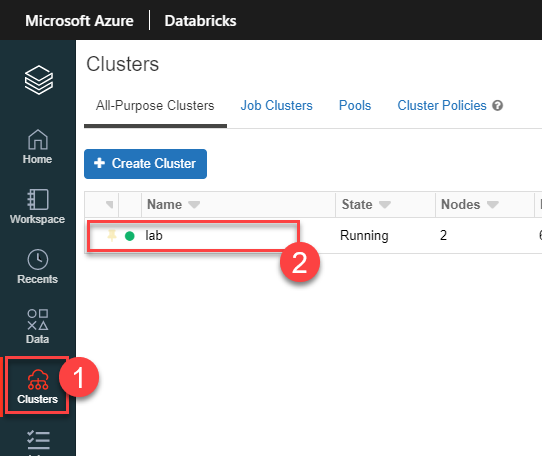
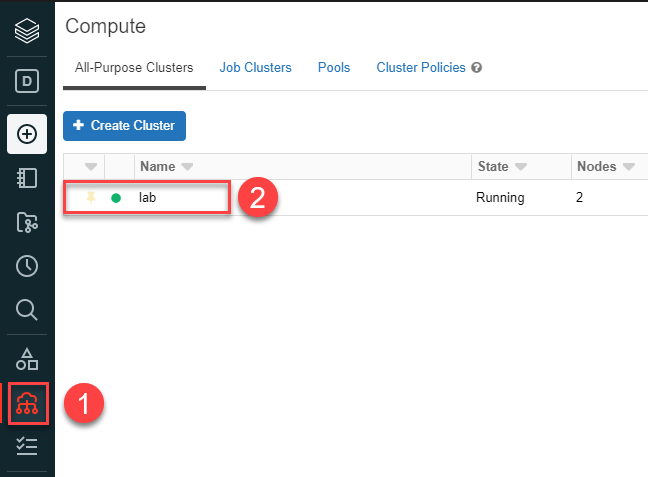
UI changes.

diff --git a/Hands-on lab/HOL step-by-step - Big data and visualization.md b/Hands-on lab/HOL step-by-step - Big data and visualization.md
@@ -134,7 +134,7 @@ You have provisioned an Azure Databricks workspace, and now you need to create a
 
    ![The Azure Databricks Azure Active Directory Single Sign On dialog.](media/azure-databricks-aad.png 'Databricks Sign In')
 
-4. Select **Clusters (1)** from the menu, then select **+ Create Cluster (2)** .
+4. Select **Compute (1)** from the menu, then select **+ Create Cluster (2)** .
 
    ![From the left menu, Clusters is selected. The + Create Cluster button is selected.](media/azure-databricks-create-cluster-button.png 'Databricks Clusters')
 
@@ -183,10 +183,10 @@ In this exercise, you will implement a classification experiment. You will load 
 3. Extract the ZIP and verify you have the following files:
 
    - FlightDelaysWithAirportCodes.csv
-   - FlightWeatherWithAirportCodes.csv
+   - FlightWeatherWithAirportCode.csv
    - AirportCodeLocationLookupClean.csv
 
-4. Open your Azure Databricks workspace. Before continuing to the next step, verify that your new cluster is running. Do this by navigating to **Clusters (1)** on the left-hand menu and ensuring that the state of your cluster is **Running (2)**.
+4. Open your Azure Databricks workspace. Before continuing to the next step, verify that your new cluster is running. Do this by navigating to **Compute (1)** on the left-hand menu and ensuring that the state of your cluster is **Running (2)**.
 
    ![The Clusters menu item is selected and the cluster is shown indicating that it is in the Running state.](media/azure-databricks-clusters-running.png 'Clusters')
 
@@ -204,7 +204,7 @@ In this exercise, you will implement a classification experiment. You will load 
 
    ![The Specify Table Attributes form is displayed, flight_delays_with_airport_codes is highlighted in the Table Name field and the First row is header checkbox is checked. The Table Preview displays the Column Names and types along with a sampling of data.](media/flight-delays-attributes.png 'Rename table')
 
-9. Repeat steps 5 through 8 for the FlightWeatherWithAirportCode.csv and AirportCodeLocationsClean.csv files, setting the name for each dataset in a similar fashion:
+9. Repeat steps 5 through 8 for the FlightWeatherWithAirportCode.csv and AirportCodeLocationLookupClean.csv files, setting the name for each dataset in a similar fashion:
 
    - flightweatherwithairportcode_csv renamed to **flight_weather_with_airport_code**
    - airportcodelocationlookupclean_csv renamed to **airport_code_location_lookup_clean**
@@ -213,7 +213,7 @@ In this exercise, you will implement a classification experiment. You will load 
 
 ### Task 2: Install Azure ML library on the cluster
 
-1. Select **Clusters (1)** on the left-hand menu, then select your lab cluster **(2)** to open it.
+1. Select **Compute (1)** on the left-hand menu, then select your lab cluster **(2)** to open it.
 
    ![From the left menu, the Clusters item is selected, and the lab cluster is highlighted.](media/azure-databricks-cluster.png 'Lab cluster')
 
